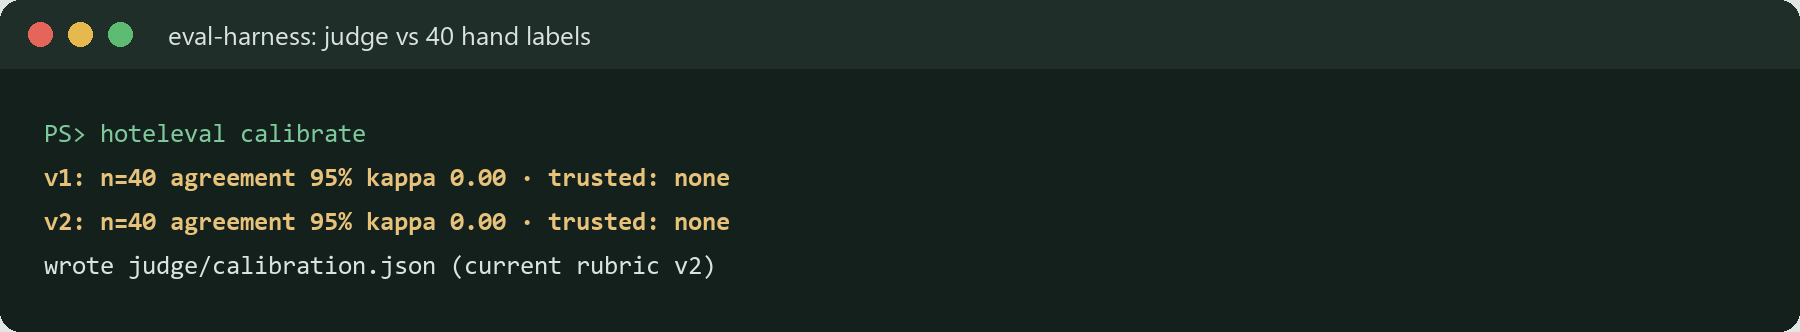
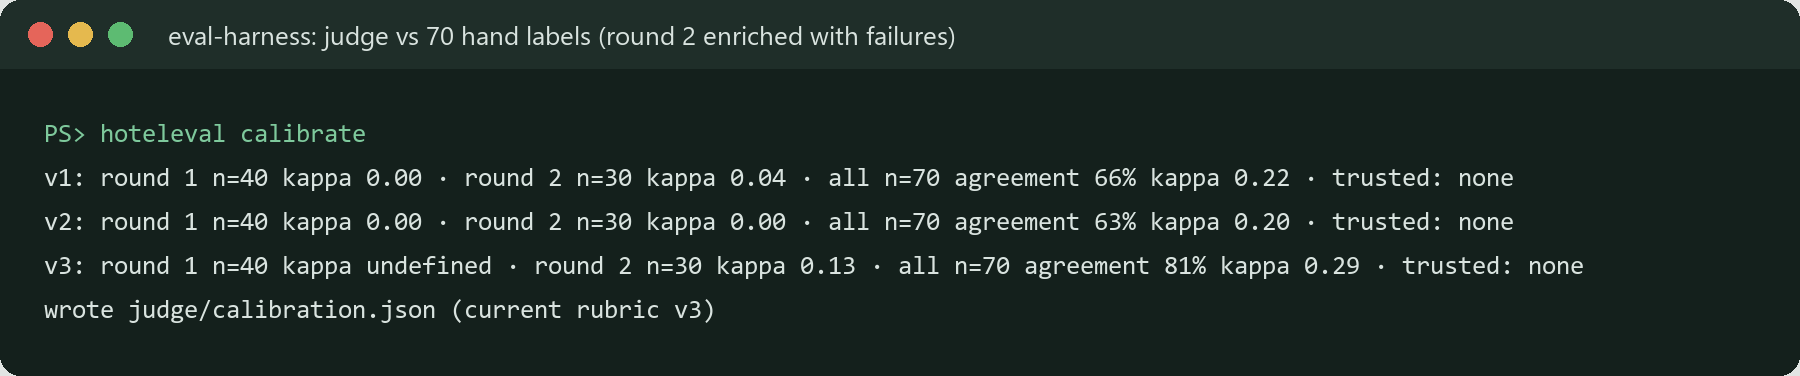
docs: round-2 calibration results everywhere (decisions 20-21, README, changelog 1.1.0, resume bullets)

diff --git a/scripts/record_demo.py b/scripts/record_demo.py
@@ -66,9 +66,9 @@ NARRATION = {
     "them. The branch was never merged.",
     "case": "Here is one: a spa question about a sixteen-year-old. The right passage dropped out, and every metric "
     "shows it.",
-    "judge": "An AI judge rates tone and clarity. I labelled forty replies by hand. It agreed ninety-five percent of "
-    "the time, but kappa was zero: my labels had no failures, so agreement proved nothing. No judge score is "
-    "trusted, and none is a gate.",
+    "judge": "An AI judge rates tone and clarity. I labelled seventy replies by hand, in two blind rounds, the second "
+    "one full of failures on purpose. Its best kappa was point two nine, well under the bar of point six. So no "
+    "judge score is trusted, and none is a gate.",
     "end": "The code, the reports and every decision are linked on screen.",
 }
 CAPTIONS = {
@@ -77,7 +77,7 @@ CAPTIONS = {
     "demo": "Bad change on a throwaway branch: top-k 5 → 2.",
     "caught": "Caught: q13 and q35 always passed, now always fail. Never merged.",
     "case": "Drill-down: the expected passage, the answers, every verdict.",
-    "judge": "Judge vs 40 hand labels: 95% agreement, kappa 0.00. Not trusted.",
+    "judge": "Judge vs 70 blind hand labels: best kappa 0.29. Not trusted, never a gate.",
 }
 
 

diff --git a/src/hoteleval/__init__.py b/src/hoteleval/__init__.py
@@ -3,4 +3,4 @@
 Recorded mode (the default, and what CI runs) re-scores saved outputs without any API call.
 """
 
-__version__ = "1.0.0"
+__version__ = "1.1.0"

diff --git a/README.md b/README.md
@@ -32,7 +32,7 @@ prompt, model or retrieval change can't lower quality without a red check.**
 | **Problem** | Two AI assistants, each with its own eval scripts and report format. A cheaper model, a new prompt or a retrieval setting can lower quality, and nothing would say so before staff notice. |
 | **Solution** | An installable harness (`hoteleval`): 181 labelled cases in one schema, the projects' own metric code at pinned commits, Wilson intervals, run consistency, regression gates in both projects' CI, a judge calibrated against human labels, and a read-only dashboard. |
 | **Projected value** | ~$26K/yr net for the two assistants (range $1.5K–$68K), mostly engineer time per change ([assumptions](docs/BUSINESS_CASE.md)) |
-| **Quality (measured)** | Reproduces both projects' published numbers from their recordings. Fresh re-runs at the pinned commits pass their gates. A realistic bad change (top-k 5 → 2) was **caught** in recorded and live mode, naming q13 and q35. Judge vs 40 hand labels: 95% agreement but **kappa 0.00**, so **no judge metric is trusted** or gated. 86 tests, 93% coverage. Whole project's API spend: **$0.38**. |
+| **Quality (measured)** | Reproduces both projects' published numbers from their recordings. Fresh re-runs at the pinned commits pass their gates. A realistic bad change (top-k 5 → 2) was **caught** in recorded and live mode, naming q13 and q35. Judge vs 70 hand labels in two blind rounds (round 2 enriched with failures): best **kappa 0.29** overall (tone 0.51, clarity 0.23, completeness 0.00), so **no judge metric is trusted**, reported as a score or gated. 87 tests, 93% coverage. Whole project's API spend: **$0.41**. |
 
 ## Where to start
 
@@ -93,7 +93,7 @@ flowchart LR
     R --> A[Adapters<br/>one output record]
     A --> M[Deterministic metrics<br/>projects' own code]
     A --> J[LLM judge<br/>completeness, tone, clarity]
-    J --> K[Calibration<br/>40 human labels, kappa]
+    J --> K[Calibration<br/>70 human labels, kappa]
     M --> S[Statistics<br/>Wilson, runs, flaky]
     S --> G[Gates<br/>hard, floors, interval, flips]
     G --> O[Reports, CI, dashboard]
@@ -183,15 +183,26 @@ numeric grounding, naming q13 and q35. The branch was deleted and never pushed o
 <img src="docs/images/gate-pass.png" alt="hoteleval gate on the fresh Project 2 re-run: PASS, every gated check ok" width="760">
 </details>
 
-**Judge calibration.** 40 stratified items labelled by hand by the owner: **all 40 pass**. Rubric v1 agreed on 38
-(95%) and failed two clarity items; kappa **0.00**, undefined for completeness and tone. One revision (v2) fixed the
-item it targeted; agreement stayed 95%, kappa 0.00. Three identical v2 passes agreed on 39 of 40 items. **No judge
-metric is trusted, so none is a gate.** On the full re-runs the judge fails 13–17% of replies on clarity: stricter
-than the labels, and only labels with real failures can say who is right ([decision 17](docs/DECISIONS.md)).
+**Judge calibration (two blind rounds, 70 labels by the owner).** Round 1: 40 stratified items, **all passed** by
+the owner, so kappa was 0.00 or undefined. Round 2: 30 items **enriched with failures on purpose** (15 real replies the
+judge had failed + 15 hand-written degraded variants); the owner failed 6 of 30, the v2 judge failed all 30. Trust is
+decided per quality on all 70 labels (rule: kappa ≥ 0.6); round 2's kappa is not what random traffic would give.
+
+| Rubric | Kappa, all 70 | Kappa, round 2 (enriched) | Completeness / tone / clarity (all 70) | Precision / recall for "fail" | Trusted |
+|---|---|---|---|---|---|
+| v1 | 0.22 (66% agreement) | 0.04 | 0.00 / 0.30 / 0.19 | 20% / 100% | none |
+| v2 | 0.20 (63%) | 0.00 | 0.00 / 0.30 / 0.14 | 19% / 100% | none |
+| v3 (in use) | **0.29** (81%) | 0.13 | 0.00 / **0.51** / 0.23 | 27% / 67% | **none** |
+
+v3 raised the bar for "fail" to "the reader would be confused, misled, left unanswered or put off". It was revised on
+the same labels, so its numbers are optimistic; I stopped there rather than nudge tone over 0.6 on those labels.
+**No judge metric is trusted, so none is reported as a score or used as a gate; the hard gates stay deterministic.**
+The judge catches what the owner fails but fails much more; the owner passed 11 of 15 deliberately degraded replies, so
+the standard itself needs written examples and a second labeler ([decisions 17, 20, 21](docs/DECISIONS.md)).
 
 <details><summary>Calibration output (real)</summary>
 
-<img src="docs/images/calibrate.png" alt="hoteleval calibrate: v1 and v2 both at 40 items, agreement 95%, kappa 0.00, trusted: none" width="760">
+<img src="docs/images/calibrate.png" alt="hoteleval calibrate: v1, v2 and v3 on round 1, round 2 and all 70 labels; best kappa 0.29 with v3, trusted: none" width="760">
 </details>
 
 <details><summary>Metric definitions</summary>
@@ -211,7 +222,8 @@ than the labels, and only labels with real failures can say who is right ([decis
 ### What the eval taught me
 
 - **Agreement isn't evidence.** 95% agreement looked good; kappa 0.00 said the 40 labels held no failures to agree
-  on. Sampling outputs that a deterministic metric flagged gave me wrong facts, not badly written replies.
+  on. A second round enriched with failures gave kappa 0.20–0.29: the judge is far stricter than I am, and I passed
+  most of the replies I had degraded on purpose. The standard needs examples before the judge can match it.
 - **An interval alone missed a real regression.** Two lost cases out of 45 stay inside the interval; "always passed,
   now always fails" is what caught it.
 - **Re-running unchanged code failed the gate.** One model miss on a 3-case group broke a 90% floor. Floors now need
@@ -244,9 +256,9 @@ eval-harness/
 ├── runs/                   # recorded outputs (one record per output)
 ├── reports/                # markdown + JSON per run, index.json
 ├── judge/                  # judge cache, verdicts, calibration.json
-├── labels/                 # 40 calibration items and the owner's labels
+├── labels/                 # calibration items (2 rounds, 70) and the owner's labels
 ├── scripts/                # import, vendor sync, added cases, rescore, business case, video
-├── tests/                  # 86 tests
+├── tests/                  # 87 tests
 └── docs/                   # plan, architecture, decisions, business case, demo script, checklists
 ```
 
@@ -280,7 +292,7 @@ hoteleval gate --project guest-request-agent --recorded eval/recorded/main-final
 | `ANTHROPIC_API_KEY` | `.env` | – | Only for `judge --live` and `run-live` |
 | Pins | `src/hoteleval/pins.py` | P1 `5f9cd91`, P2 `575a19f` | The commits evaluated |
 | Gates | `src/hoteleval/data/gates.toml` | hard + floors | What fails a build |
-| Rubric | `src/hoteleval/data/rubrics/judge-v*.toml` | v2 | Judge wording; never edited after use |
+| Rubric | `src/hoteleval/data/rubrics/judge-v*.toml` | v3 | Judge wording; never edited after use |
 | Prices | `--price-in` / `--price-out` | – | USD per million tokens for cost per 1,000 |
 
 ## Commands reference
@@ -292,8 +304,8 @@ hoteleval gate --project guest-request-agent --recorded eval/recorded/main-final
 | `hoteleval score --run-id ID --baseline BASE` | Report + gate | No |
 | `hoteleval run-live --project P --repo PATH --ref REF --runs 3 --run-id ID` | Real pipeline at a ref | Yes |
 | `hoteleval import-run --project P --native FILE --run-id ID` | Convert a project's recording | No |
-| `hoteleval judge --rubric v2 [--run ID] [--repeat N] --live` | Judge items or a run | Yes |
-| `hoteleval calibrate` | Judge vs labels, every rubric version | No |
+| `hoteleval judge --rubric v3 [--round 2] [--run ID] [--repeat N] --live` | Judge calibration items or a run | Yes |
+| `hoteleval calibrate` | Judge vs labels: each round and all labels, every rubric version | No |
 | `python scripts/rescore_all.py` · `check_reports.py` | Re-score everything / prove reports match | No |
 
 ## Troubleshooting
@@ -312,13 +324,13 @@ secrets. Every push redeploys it.
 
 ## Testing and quality
 
-86 tests at 93% coverage: the schema, every metric passing and failing, statistics, kappa, gates, adapters, the
+87 tests at 93% coverage: the schema, every metric passing and failing, statistics, kappa, gates, adapters, the
 runner, reports, the judge with a fake client, the CLI and every dashboard page (Streamlit AppTest). CI: ruff lint
 and format, pip-audit, coverage ≥ 90%, recorded-mode gates and a re-score of every saved report.
 
 <details><summary>Test run (real)</summary>
 
-<img src="docs/images/tests.png" alt="pytest: 86 passed, total coverage 93%" width="760">
+<img src="docs/images/tests.png" alt="pytest: 87 passed, total coverage 93%" width="760">
 </details>
 
 ## Security and privacy
@@ -329,7 +341,8 @@ secret scanning and push protection on. [SECURITY.md](SECURITY.md)
 
 ## Limitations and roadmap
 
-- The calibration sample held no human failures; the judge is untrusted until labels with real failures exist.
+- The judge is untrusted (best kappa 0.29 on 70 labels); next: written pass/fail examples per quality, a second
+  labeler and fresh labels.
 - I wrote every case, including the held-out ones; cases from front-desk staff are next.
 - Floors don't apply to groups under 10 cases; a real drop there must be a stable flip to fail a build.
 - Project 4: persistent run history, monitoring, sign-in and redaction.

diff --git a/docs/DECISIONS.md b/docs/DECISIONS.md
@@ -188,8 +188,8 @@ Each decision: context, decision, tradeoff, result. Numbers come from saved runs
   11) produced replies with wrong facts, not badly written ones, so the sample held no quality failures.
 - **Result.** v2 fixed the item it targeted, kept the stable disagreement (p2-clarity-06, failed in every pass) and
   failed one new item (p1-clarity-04) that then flipped between identical passes (decision 19). Agreement 95%,
-  kappa 0.00 for both versions. On the full re-runs the judge fails 13–17% of replies on clarity, so it is stricter
-  than the human labels; which of the two is right needs labels that contain real failures. Next: seed the sample
+  kappa 0.00 for both versions. On the full re-runs the judge failed more replies on clarity than the human
+  labels did; which of the two is right needed labels that contain real failures (round 2, decisions 20 and 21). Next: seed the sample
   with known-bad replies (the regression demo's answers, deliberately degraded drafts) and add a second labeler.
 
 ## 18. A rubric note in the wrong TOML table
@@ -208,3 +208,34 @@ Each decision: context, decision, tradeoff, result. Numbers come from saved runs
   reports how many items got the same verdict in every pass.
 - **Result.** Three v2 passes: 39 of 40 identical; p1-clarity-04 flipped (fail, fail, pass). A one-item change after
   a rubric edit is within the judge's own noise. API cost of the three passes: about $0.03.
+
+## 20. Calibration round 2: a blind set enriched with failures
+
+- **Context.** Round 1 held no human failures (decision 17), so kappa could not say whether the judge was useful.
+- **Decision.** A second blind set of 30 items (`scripts/build_round2.py`): 15 real replies the v2 judge failed on the
+  harness re-runs (cases not in round 1) and 15 synthetic degraded variants of other real replies, written by hand,
+  not by a model (3 robotic and 3 cold for tone, 3 rambling and 3 internal-jargon for clarity, 3 with one request
+  dropped for completeness). Shuffled with a fixed seed; which items are degraded is recorded only in hidden metadata
+  the labeling page never shows; nothing round-2 related was pushed until the labels were in. Trust is decided per
+  quality on all 70 labels together; round 2 alone is reported next to it and always marked as enriched with failures.
+- **Tradeoff.** Half the round was chosen because the judge failed it, so precision and recall for "fail" describe
+  this enriched sample, not real traffic.
+- **Result.** The owner failed 6 of 30 (2 of 15 real, 4 of 15 degraded: one robotic, one cold, one rambling, one
+  jargon). The judge (v2) failed all 30.
+
+## 21. Kappa after both rounds: 0.20–0.29, nothing trusted; stopped at rubric v3
+
+- **Context.** Results on all 70 labels: v1 agreement 66%, kappa 0.22; v2 63%, 0.20. Round 2 alone (enriched): v1
+  0.04, v2 0.00. The judge caught every reply the owner failed (recall 100%) but failed far more (precision about 20%):
+  it is much stricter than the owner.
+- **Decision.** One revision (v3): fail only when a reader would be confused, misled, left without an answer they
+  asked for, or put off; style imperfections pass. v3 on all 70: agreement 81%, kappa 0.29 (tone 0.51, clarity 0.23,
+  completeness 0.00), precision 27%, recall 67%; round 2 alone 0.13; round 1 perfect agreement (kappa undefined). No
+  second revision: tone was the only quality near 0.6, and pushing it over on the same 70 labels would be fitting the
+  rubric to the labels. Untrusted judge numbers are no longer shown as scores anywhere; the hard gates stay
+  deterministic.
+- **Tradeoff.** No automated completeness, tone or clarity score. v3's numbers are optimistic (revised on the labels
+  it is scored against).
+- **Result.** The open question is the standard itself: the owner passed 11 of 15 deliberately degraded replies. A
+  second labeler, written pass/fail examples for each quality, and fresh labels come before any judge metric gates
+  or reports.

diff --git a/docs/VALIDATION_CHECKLIST.md b/docs/VALIDATION_CHECKLIST.md
@@ -6,7 +6,8 @@ What is already measured, and what still needs a person.
 - [x] Both projects' published numbers reproduced from their recordings (`tests/test_reproduce.py`).
 - [x] Fresh live re-runs of both projects at the pinned commits, 3 runs each, gates PASS.
 - [x] Regression demo (top-k 5 → 2) caught in recorded and live mode; branch deleted, never pushed.
-- [x] 40 calibration items labelled by the owner; judge v1 and v2 calibrated; judge self-consistency measured.
+- [x] Calibration round 1 (40 items) and round 2 (30 items enriched with failures) labelled blind by the owner;
+      judge v1, v2 and v3 calibrated on each round and all 70; judge self-consistency measured.
 - [x] Dashboard deployed on Streamlit Community Cloud and checked on desktop and phone widths.
 
 ## Owner checks
@@ -14,6 +15,7 @@ What is already measured, and what still needs a person.
    live runs do).
 2. **Second labeler (30 minutes):** ask someone who hasn't seen the code to run `make label` on a copy of the items;
    their agreement with your labels is the ceiling a judge can be expected to reach.
-3. **Labels with real failures:** add 20 deliberately weak replies (wrong tone, buried answer, missing request) to
-   the sample, label them, and re-run `hoteleval calibrate`. Only then can kappa say whether the judge is useful.
+3. **A written standard:** for each quality, write 3 pass and 3 fail examples (round 2 showed the owner passes most
+   deliberately degraded replies while the judge fails them), then label a fresh round and re-run `hoteleval
+   calibrate`. A judge metric is trusted only at kappa >= 0.6 on labels it wasn't revised on.
 4. **Held-out cases from staff:** 10 questions and 10 emails written by someone outside the project, run live once.

diff --git a/docs/RESUME_BULLETS.md b/docs/RESUME_BULLETS.md
@@ -1,12 +1,12 @@
 # Resume bullets (Project 3)
 
-Honest, measured; the value figure is labelled a projection. Don't edit the resume PDF; use these when updating it.
+Honest and measured. Don't edit the resume PDF; use these when updating it.
 
 - Built an installable evaluation harness for two production-style LLM apps (RAG assistant, tool-using email
   agent): 181 labelled cases in one schema, the apps' own metrics at pinned commits, Wilson intervals and regression
   gates in both repos' CI; it reproduced both apps' published numbers and caught a realistic top-k 5→2 regression
   (strict retrieval 98% → 93%, inside the interval) by flagging the two questions that flipped.
-- Calibrated an LLM-as-judge (Claude Haiku 5.5, versioned rubric, structured output) against 40 hand labels:
-  95% agreement but Cohen's kappa 0.00, so no judge metric was trusted or gated; found and fixed four grader bugs and
-  two gate-design flaws, for $0.38 of total API spend (simulated client engagement, synthetic data; projected
-  value $26K/yr base, range $1.5K–$68K).
+- Calibrated an LLM-as-judge (Claude Haiku 5.5, versioned rubric, structured output) against 70 blind hand labels in
+  two rounds, the second enriched with real and synthetic failures: best Cohen's kappa 0.29, so no judge metric was
+  trusted, reported or used as a gate; found and fixed four grader bugs and two gate-design flaws for $0.41 of total
+  API spend (simulated client engagement, synthetic data).

diff --git a/CHANGELOG.md b/CHANGELOG.md
@@ -3,6 +3,23 @@
 All notable changes to this project. Format: [Keep a Changelog](https://keepachangelog.com/en/1.1.0/); versions
 follow [Semantic Versioning](https://semver.org/).
 
+## [1.1.0] - 2026-10-15
+
+### Added
+- Calibration round 2: 30 blind items enriched with failures (15 real replies the judge failed, 15 hand-written
+  degraded variants), `scripts/build_round2.py`, the labeling page's `--round 2`, `hoteleval judge --round 2`.
+- `hoteleval calibrate` reports each round and all labels together, per quality; trust is decided on all labels.
+- Rubric v3 (higher bar for "fail"); the calibration page shows every round, confusion matrices and rubric versions.
+
+### Changed
+- Untrusted judge numbers are no longer shown as scores anywhere (the run pass-rate table is gone until a metric is
+  trusted).
+- Dependencies: ruff 0.17.0 (CI pinned to it), actions/checkout v7, actions/setup-python v7.
+
+### Measured
+- 70 owner labels (round 1: 40, all pass; round 2: 30, 6 fail). Kappa on all 70: v1 0.22, v2 0.20, v3 0.29 (tone 0.51,
+  clarity 0.23, completeness 0.00); round 2 alone (enriched): 0.04, 0.00, 0.13. No judge metric trusted.
+
 ## [1.0.0] - 2026-10-15
 
 First release. A simulated client engagement for a fictional hotel group, with synthetic data.

diff --git a/docs/DEMO_SCRIPT.md b/docs/DEMO_SCRIPT.md
@@ -11,5 +11,5 @@ Narration: an AI voice (Piper `en_US-lessac-high`, open source, offline), labell
 | 0:28 | Runs over time, demo marked | Then I made a realistic bad change on a throwaway branch: two passages instead of five, to save tokens. Retrieval only fell from ninety-eight to ninety-three percent, inside the interval. |
 | 0:42 | Run list, failure reasons | The gate still failed, because two questions that always passed now always fail. The message names them. The branch was never merged. |
 | 0:52 | Cases, q13 drill-down | Here is one: the spa age question. The right passage dropped out, and every metric shows it. |
-| 1:02 | Judge calibration | An AI judge rates tone and clarity. I labelled forty replies by hand. It agreed ninety-five percent of the time, but kappa was zero: my labels had no failures, so agreement proved nothing. No judge score is trusted, and none is a gate. |
+| 1:02 | Judge calibration | An AI judge rates tone and clarity. I labelled seventy replies by hand, in two blind rounds, the second one full of failures on purpose. Its best kappa was point two nine, well under the bar of point six. So no judge score is trusted, and none is a gate. |
 | 1:20 | End card | The code, the reports and every decision are linked on screen. |

diff --git a/SECURITY.md b/SECURITY.md
@@ -8,7 +8,8 @@ documents, guests, bookings and emails. The harness evaluates the hotel group's 
   Project 3. Fictional names and `@example.com` addresses only.
 - **Recorded outputs (`runs/`):** the assistants' answers and drafts to those synthetic cases, with tool results
   and timings. No visitor data: nothing typed into the live apps is ever recorded here.
-- **Human labels (`labels/human-labels.jsonl`):** the owner's pass/fail clicks and optional reasons on 40 items.
+- **Human labels (`labels/human-labels.jsonl`, `labels/human-labels-round2.jsonl`):** the owner's pass/fail clicks and optional
+  reasons on 70 items in two blind rounds.
 - **Sent to the Claude API (judge and live runs only):** the case text, the reply being judged and the rubric. The
   dashboard and CI never call the API.
 

diff --git a/docs/ARCHITECTURE.md b/docs/ARCHITECTURE.md
@@ -16,7 +16,7 @@ flowchart LR
     ADP[Adapters<br/>one output record]
     MET[Deterministic metrics<br/>projects' own code at the pins]
     JUD[LLM judge<br/>completeness, tone, clarity]
-    CAL[Calibration<br/>40 human labels, kappa]
+    CAL[Calibration<br/>70 human labels in 2 rounds, kappa]
     STA[Statistics<br/>Wilson, runs, flaky, categories]
     GAT[Gates<br/>hard 100%, floors,<br/>interval, stable flips]
     OUT[Reports + index<br/>CI checks<br/>dashboard]
